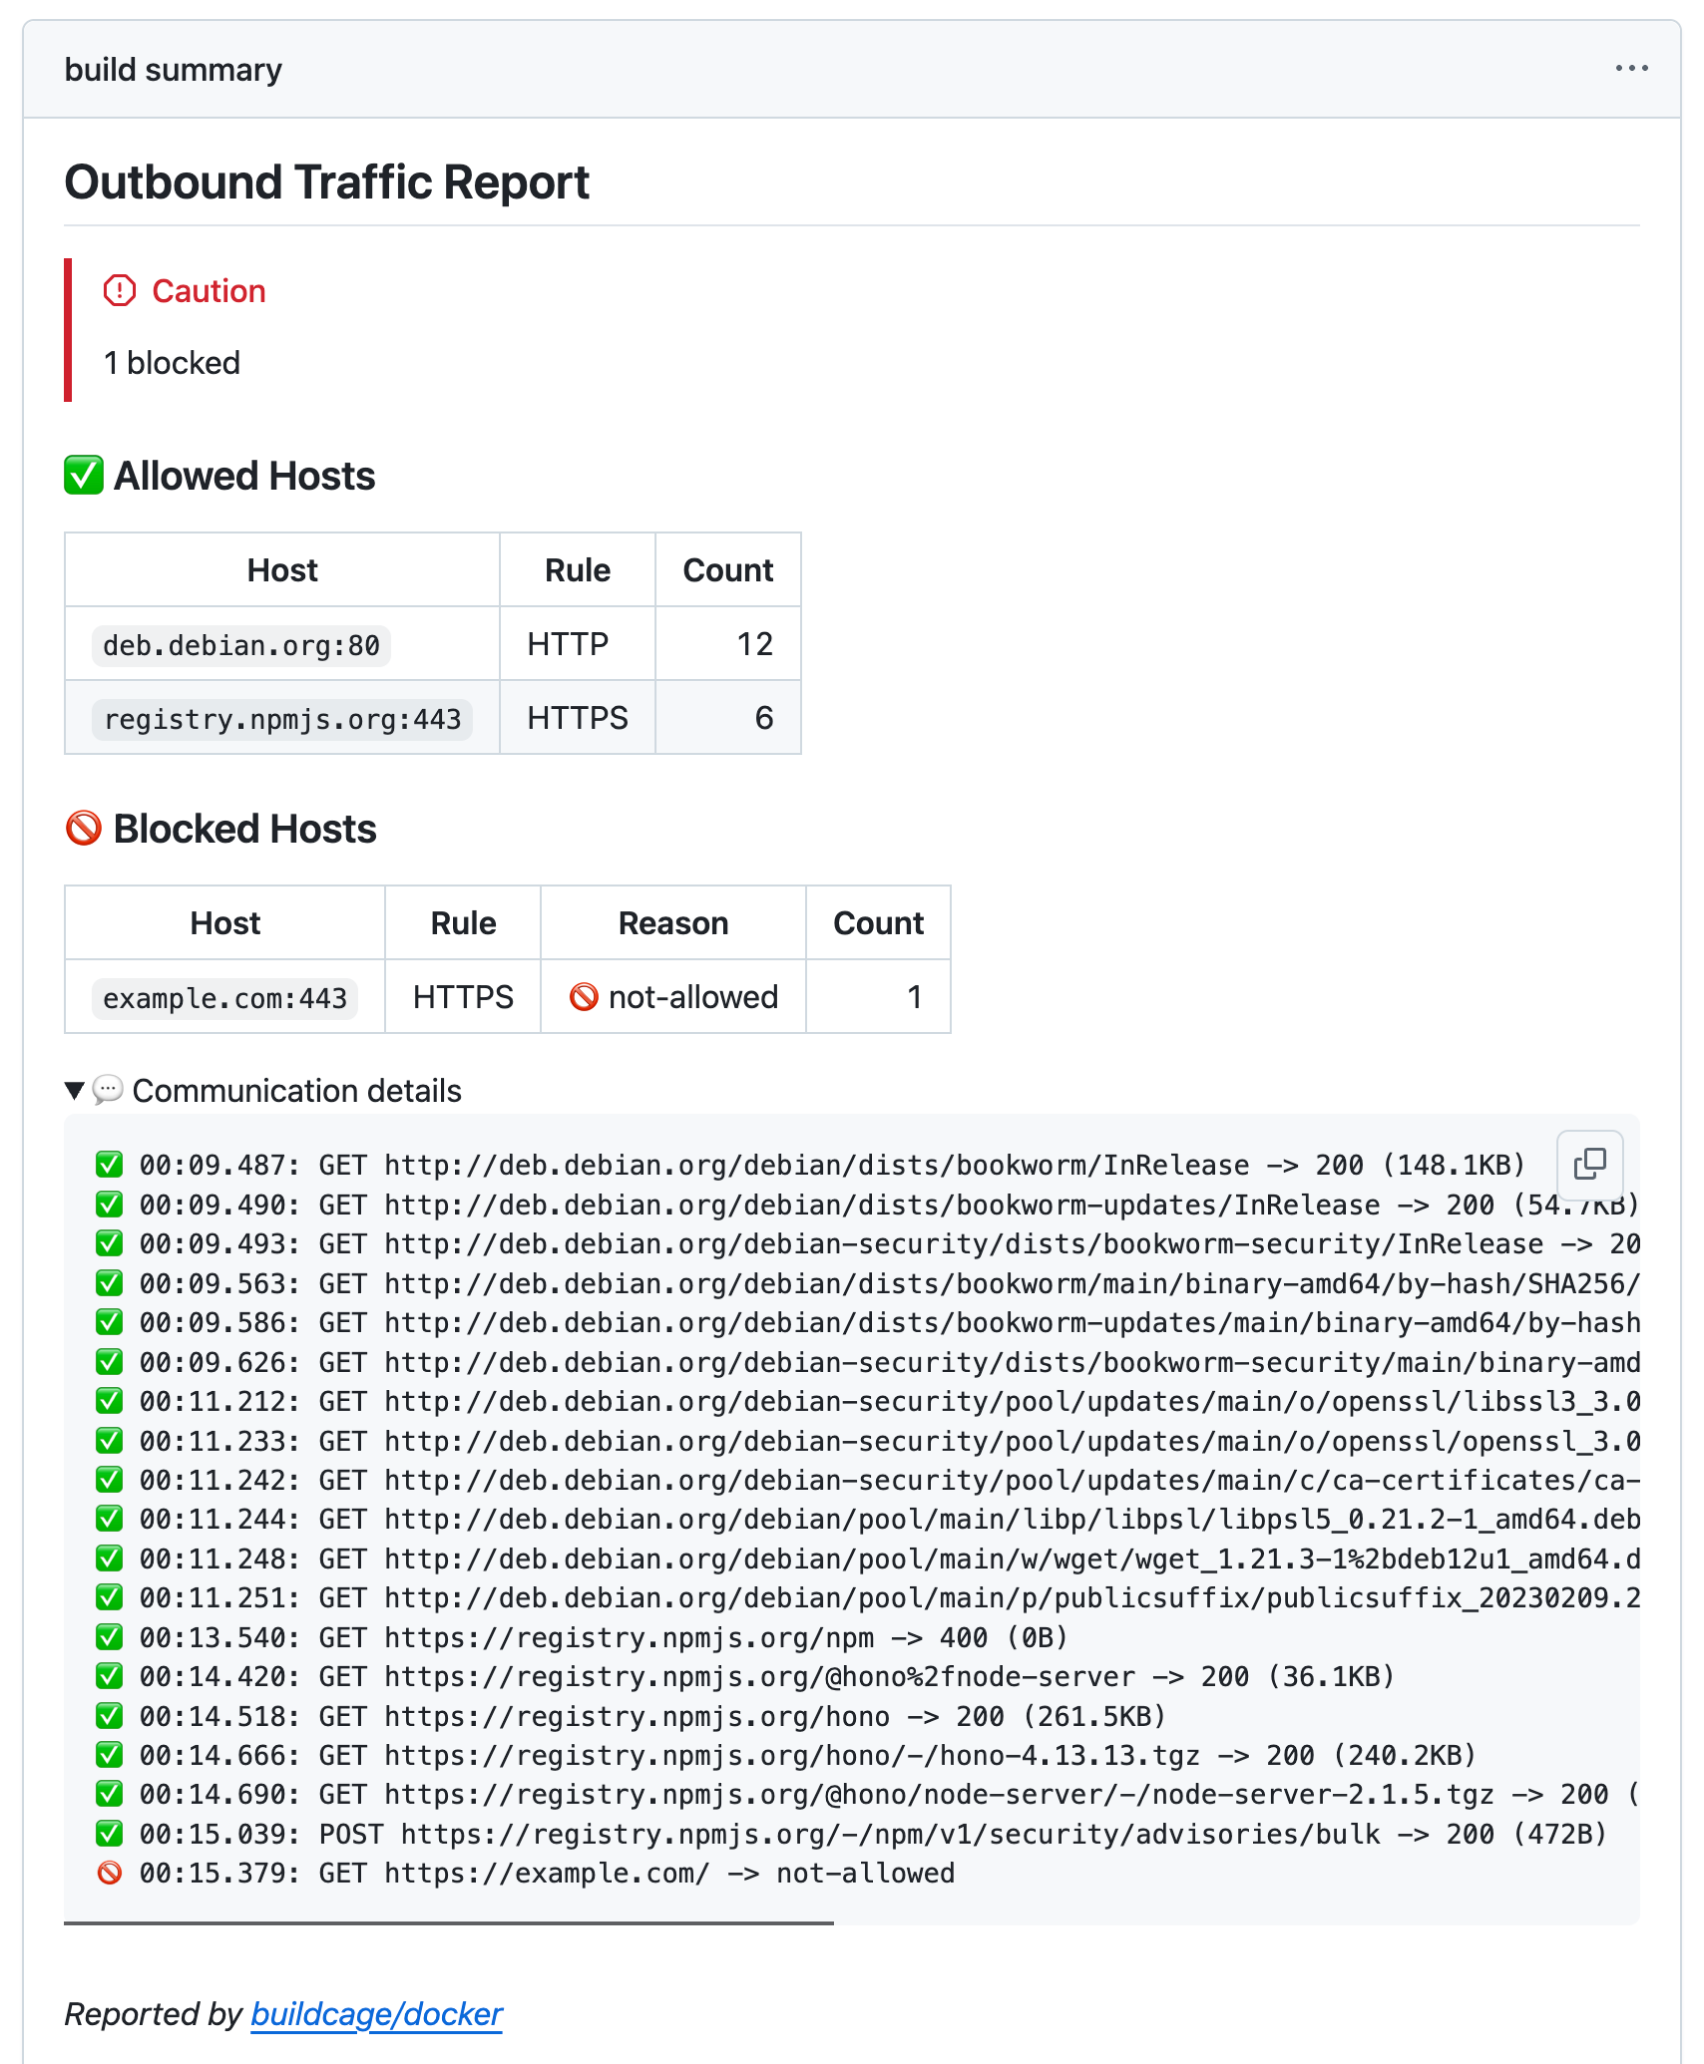
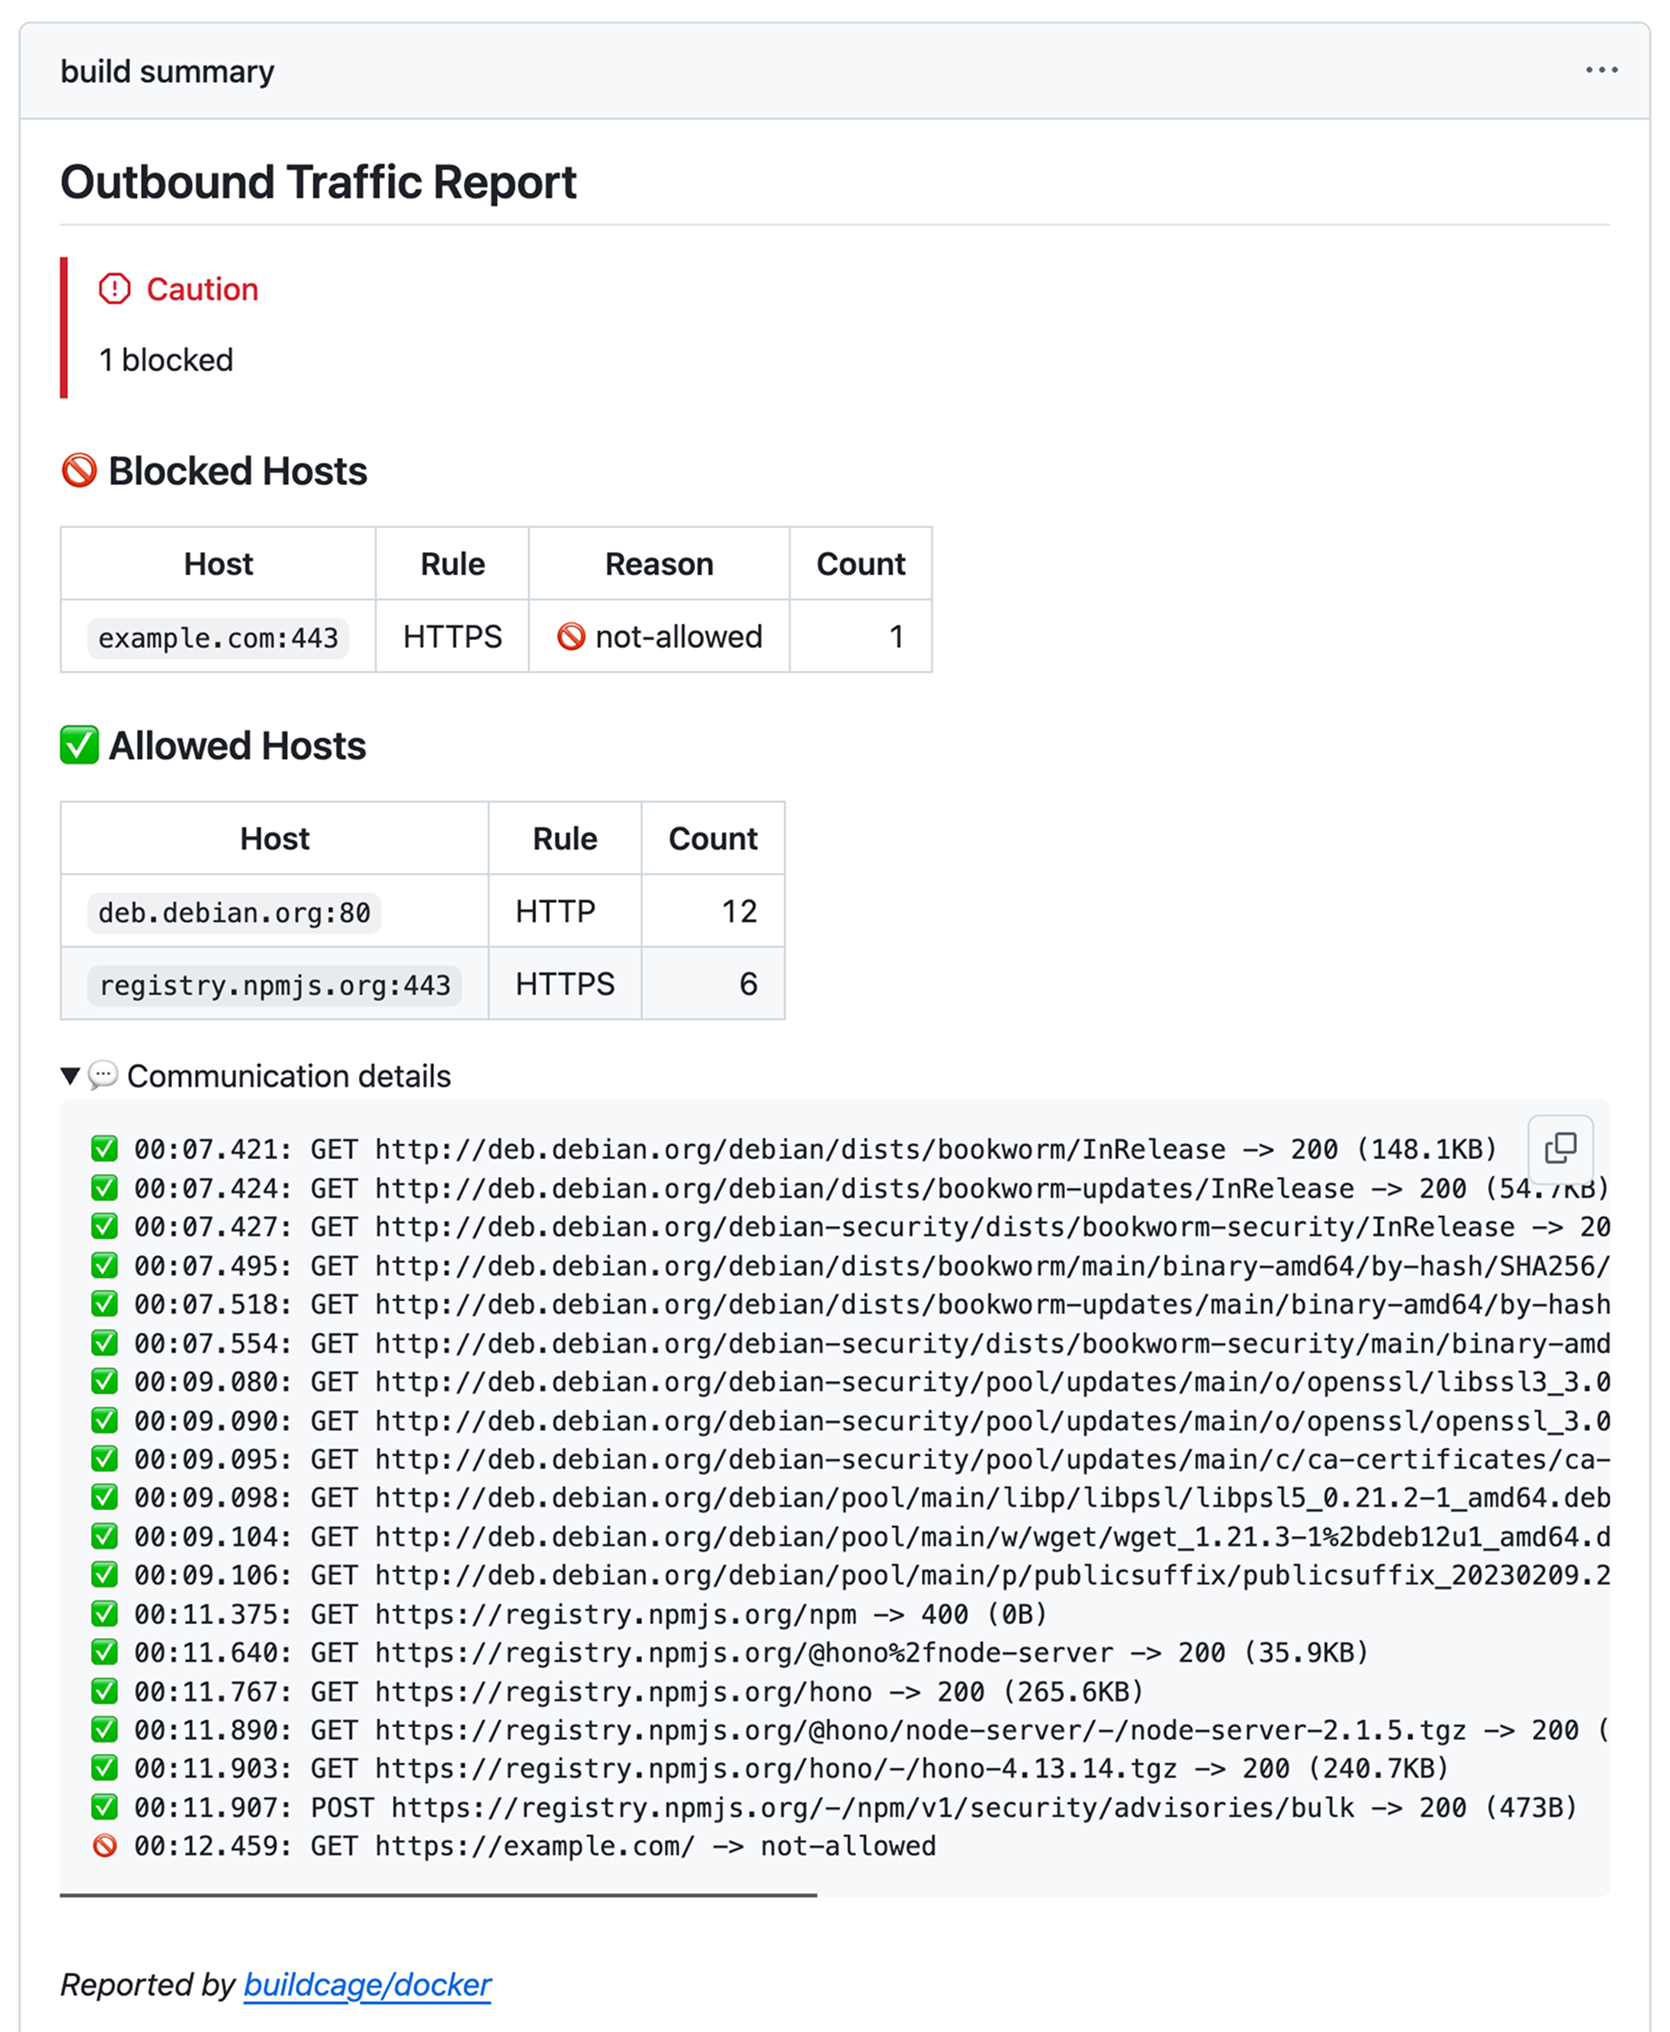
docs: update the report screenshots and their sizes

diff --git a/README.md b/README.md
@@ -91,7 +91,7 @@ covers the choice of engine.
 
 The [report action](#report-action) writes every destination the build contacted to the Job Summary:
 
-<img src="assets/report-inspect-audit-mode.png" alt="Outbound Traffic Report (audit mode)" width="568">
+<img src="assets/report-inspect-audit-mode.png" alt="Outbound Traffic Report (audit mode)" width="557">
 
 Its **Switch to restrict mode** section holds the allowlist, already written out from what the build
 actually did. A request whose method, host or path a rule would read as a wildcard is listed under
@@ -115,7 +115,7 @@ Paste that allowlist into the setup step and switch the mode:
 Each rule names the methods it permits, so this one lets npm fetch packages without letting it
 publish any: a `POST` to the same host is blocked, as is every host not listed.
 
-<img src="assets/report-inspect-restrict-mode.png" alt="Outbound Traffic Report (restrict mode)" width="568">
+<img src="assets/report-inspect-restrict-mode.png" alt="Outbound Traffic Report (restrict mode)" width="557">
 
 A blocked connection fails the job at the report step, so a build that starts reaching somewhere new
 doesn't pass unnoticed.
